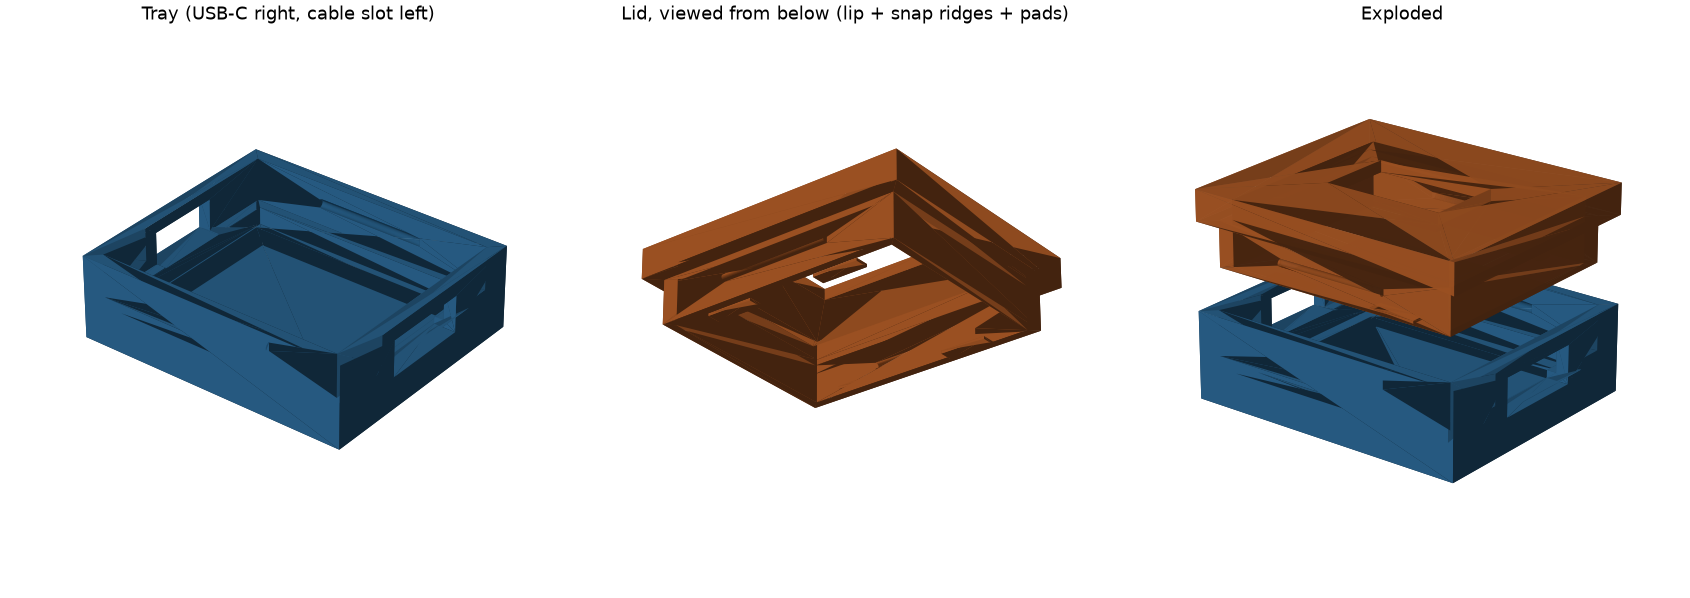
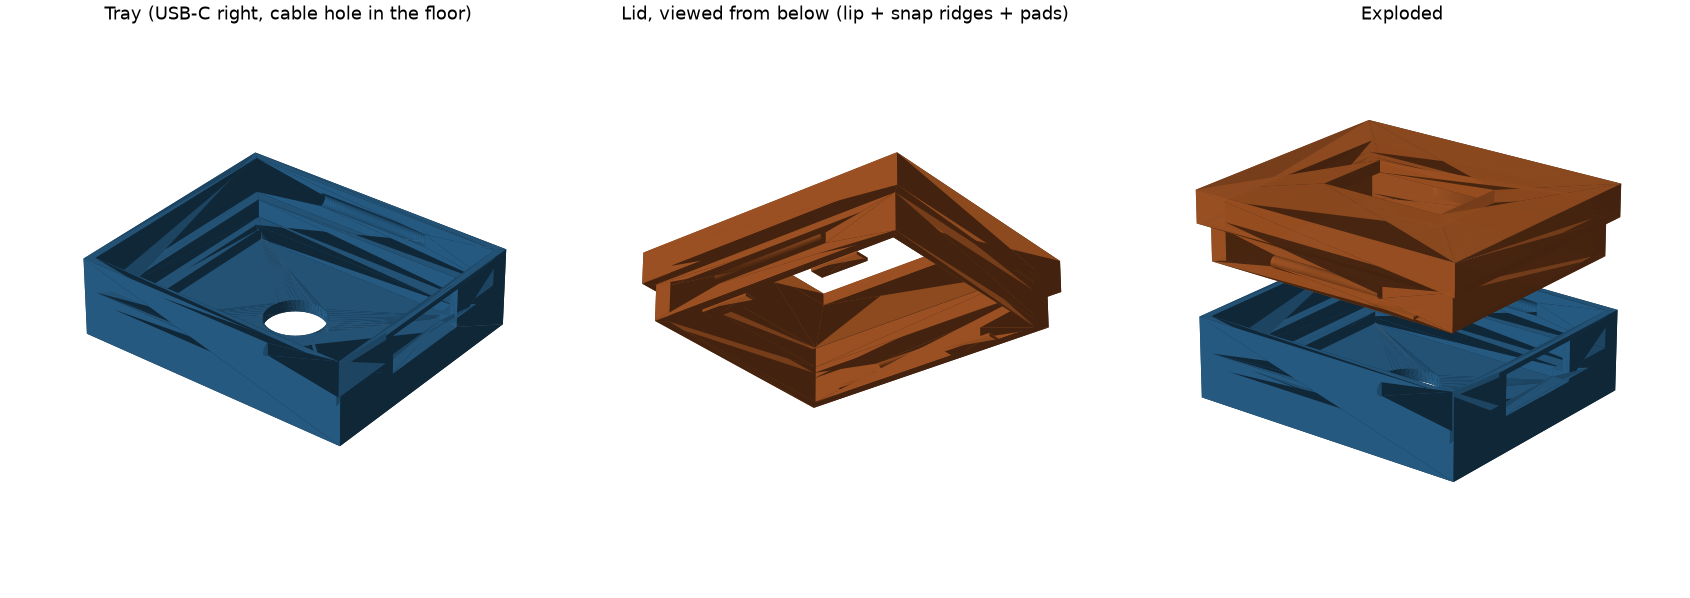
cable hole on bottom

diff --git a/hardware/preview_case.py b/hardware/preview_case.py
@@ -64,7 +64,7 @@ def render_iso(tray, lid, path):
 
     ax = fig.add_subplot(131, projection="3d")
     shaded(ax, tray, TRAY_COLOR)
-    frame_3d(ax, [tray], "Tray (USB-C right, cable slot left)")
+    frame_3d(ax, [tray], "Tray (USB-C right, cable hole in the floor)")
     ax.view_init(elev=32, azim=-52)
 
     # Show the lid from underneath -- that is where the lip, snap ridges and
@@ -131,7 +131,7 @@ def render_sections(tray, lid, path):
     axes[0].legend(fontsize=7, loc="upper right")
 
     draw_section(axes[1], tray, lid, (0, 1, 0), (0, 0, 0),
-                 "Section along length (y=0)\nUSB-C right, cable slot left")
+                 "Section along length (y=0)\nUSB-C right, cable hole through the floor")
 
     # Zoom on one snap joint.
     draw_section(axes[2], tray, lid, (1, 0, 0), (0, 0, 0),

diff --git a/README.md b/README.md
@@ -62,7 +62,7 @@ Note that board references list an onboard LED on `IO0`, shared with the up butt
 ~/.pythonenvs/stl/bin/python3 hardware/generate_c3_oled_case.py
 ```
 
-It writes `case_bottom.stl` and `case_top.stl` alongside the script. The board is held without soldered headers, resting on a perimeter ledge and pressed down by pads on the lid, with 7 mm of headroom so the 2N2222A can lie flat on the PCB. Openings: USB-C on one end, an 8 x 3.6 mm cable slot on the other for the fan return, ground bond, thermistor pair and button wires, and a window over the OLED. Every dimension is a named constant at the top of the script, and `check_parameters()` asserts the ones that quietly ruin a print (wall left behind the snap groove, snap deflection, material bridging the wall openings, TO-92 headroom).
+It writes `case_bottom.stl` and `case_top.stl` alongside the script. The board is held without soldered headers, resting on a perimeter ledge and pressed down by pads on the lid, with 7 mm of headroom so the 2N2222A can lie flat on the PCB. Openings: USB-C on one end, a 6 mm circular cable hole in the middle of the tray floor -- the back panel -- for the fan return, ground bond, thermistor pair and button wires, and a window over the OLED. That hole opens into the relief under the board, so those wires solder to pads on the PCB's underside and drop straight out the back; there is only 1.2 mm of height in there, so they cannot run sideways first. Every dimension is a named constant at the top of the script, and `check_parameters()` asserts the ones that quietly ruin a print (wall left behind the snap groove, snap deflection, material bridging the wall openings, TO-92 headroom).
 
 [hardware/preview_case.py](hardware/preview_case.py) renders the result for inspection:
 
